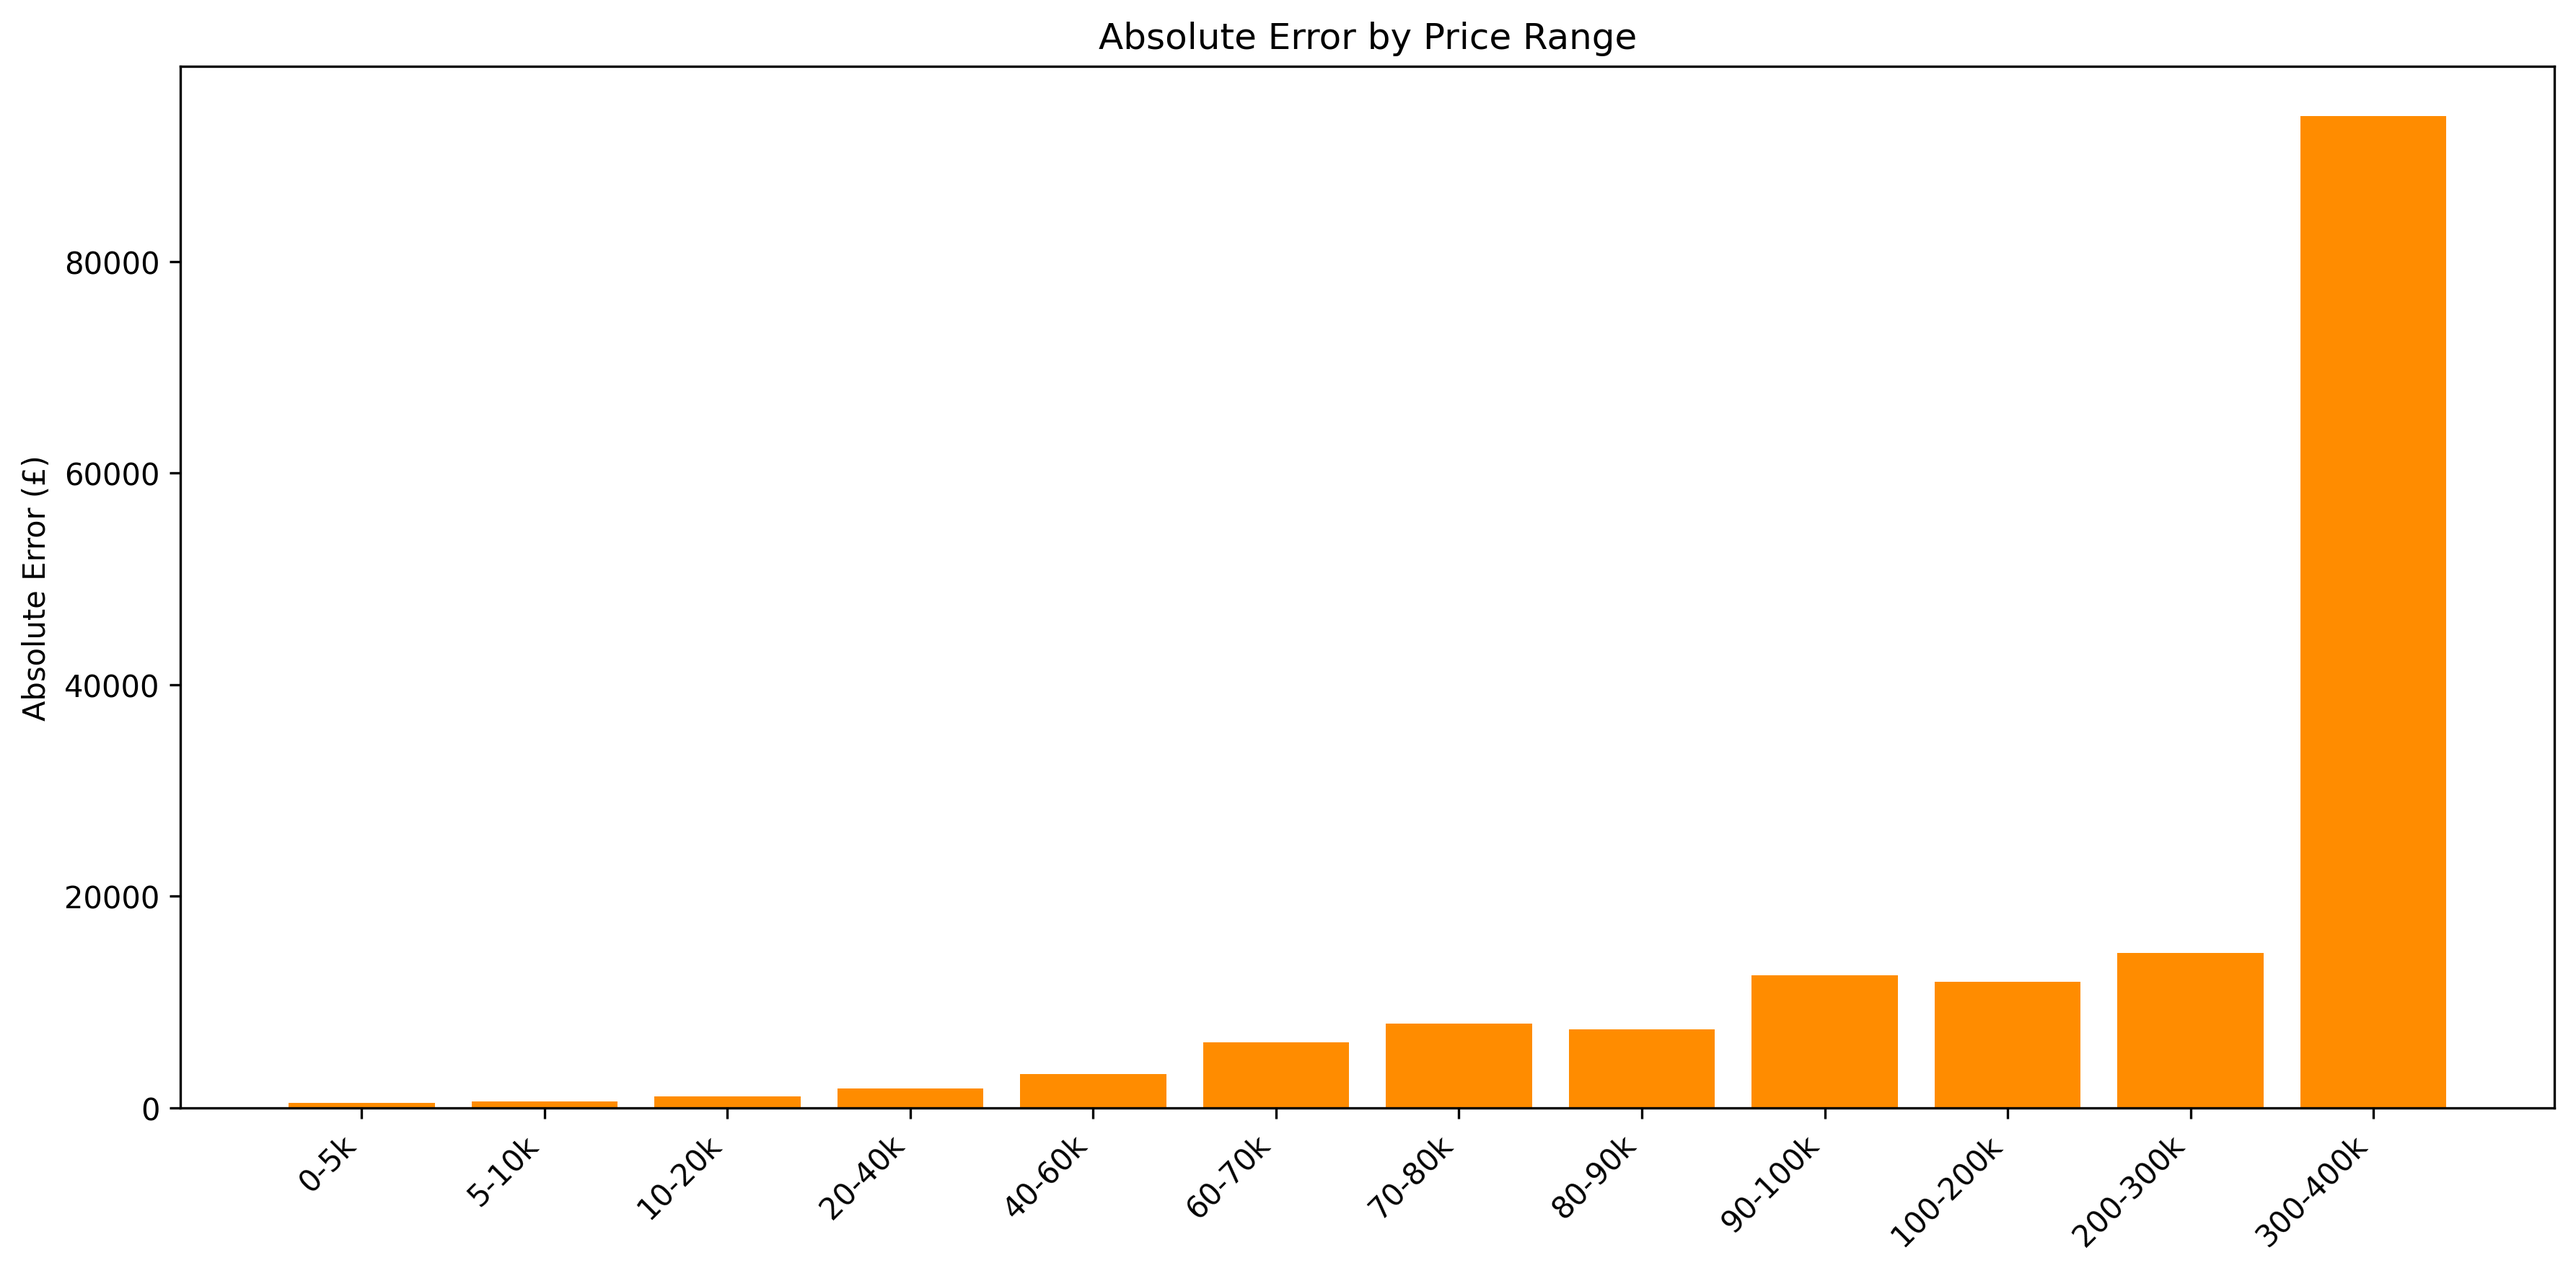
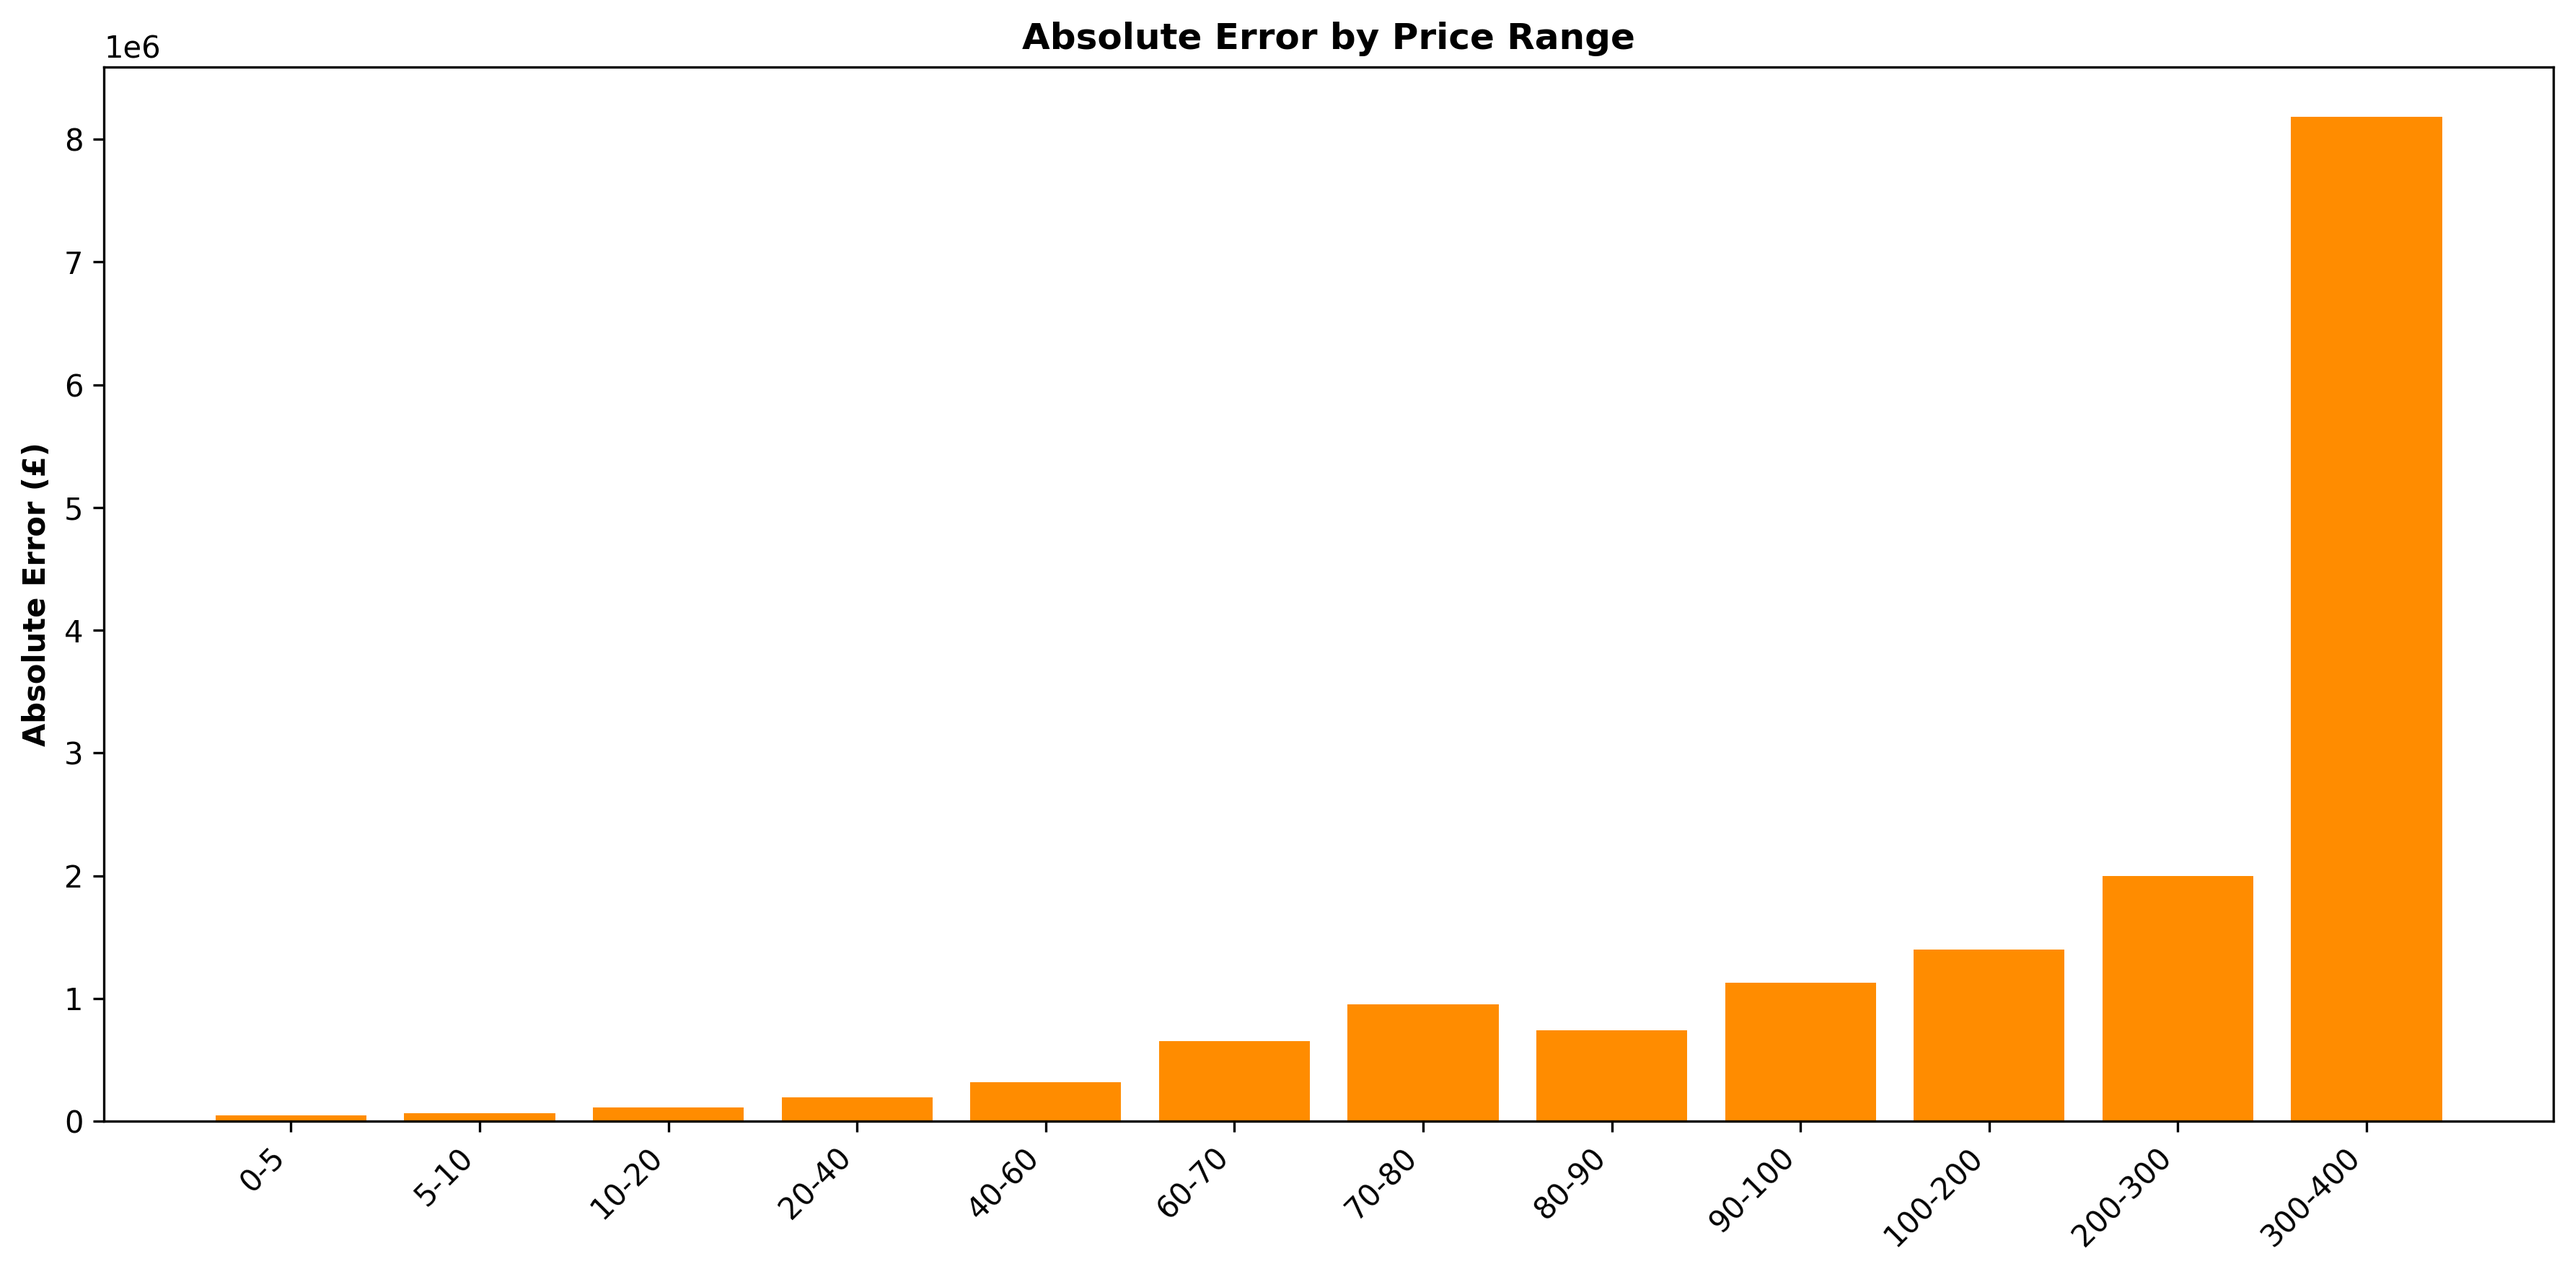
feat(models): save final models, metrics and figures

diff --git a/src/model_analysis.py b/src/model_analysis.py
@@ -21,14 +21,7 @@ from sklearn.utils.validation import check_is_fitted
 
 def main():
     df = get_safe_data()
-
-    # Check for proxy leakage
-    #plot_correlation_heatmap(df, numeric_features)
     
-    # Check price distributions
-    #plot_price_box_plots(df)
-
-    # -- Select features and split dataset -- #
     # List all categorical and numeric features
     categorical_features= [
         'brand', 'genmodel', 'colour', 'bodytype', 
@@ -42,12 +35,15 @@ def main():
         'age', 'usage_intensity_norm', 'original_sales', 'entry_price'
     ]
 
+    # Check for proxy leakage
+    plot_correlation_heatmap(df, numeric_features)
+
     # Define features and target for the model
     features = [
         'brand', 'colour', 'bodytype', 
         'gearbox','fuel', 'adv_month', 'mileage', 
         'mpg', 'seats', 'doors', 'power', 'engine',
-        'speed', 'age', 'usage_intensity_norm', 'original_sales', 'entry_price'
+        'speed', 'age', 'usage_intensity_norm', 'original_sales'
     ]
 
     target = 'price'
@@ -65,17 +61,34 @@ def main():
     all_features = show_feature_names(preprocess, categorical_features_to_train, numeric_features_to_train, X_train) # Get feature names
     print (f"Number of ohe catagoric features + numeric features: {len(all_features)}")
     
-    # # -- Train models -- #
-    #dtr_model = find_or_train_model("final_decision_tree.pkl", "decision_tree_regressor", preprocess, X_train, y_train, X_test, y_test)
-    rf_model = find_or_train_model("random_forest.pkl", "random_forest", preprocess, X_train, y_train, X_test, y_test)
-    #gb_model = find_or_train_model("gradient_boosting.pkl", "gradient_boosting", preprocess, X_train, y_train, X_test, y_test)
-    
+    # Train models
+    dtr_model = find_or_train_model("final_decision_tree.pkl", "decision_tree_regressor", preprocess, X_train, y_train, X_test, y_test)
+    gb_model = find_or_train_model("final_gradient_boosting.pkl", "gradient_boosting", preprocess, X_train, y_train, X_test, y_test)
+    rf_model = find_or_train_model("final_random_forest.pkl", "random_forest", preprocess, X_train, y_train, X_test, y_test)
+    rf_tuned_model = find_or_train_model("final_random_forest_tuned.pkl", "random_forest_tuned", preprocess, X_train, y_train, X_test, y_test)
 
-    # #Tune hyperparameters (tuned once then commented out)
+    # Plot feature importance
+    plot_feature_importance(all_features, dtr_model, "decision_tree_regressor", "final_dtr_feature_importance.png")
+    plot_feature_importance(all_features, gb_model, "gradient_boosting", "final_gb_feature_importance.png")
+    plot_feature_importance(all_features, rf_model, "random_forest", "final_rf_feature_importance.png")
+    plot_feature_importance(all_features, rf_tuned_model, "random_forest_tuned", "final_rf_tuned_feature_importance.png")
+
+    # Analyse Errors 
+    a_preds, a_mae, a_rmse, a_r2 = test_model(rf_tuned_model, X_test, y_test)
+    a_errors = np.abs(y_test - a_preds)
+    a_relative_error = a_errors / y_test
+
+    # Plot error graphs
+    plot_model_analysis(X_test, y_test, a_preds, a_errors, a_relative_error, "brand_level_bias.png", a_mae)
+
+    # Plot tree
+    #plot_decision_tree(dtr_model, "decision_tree_regressor", all_features, "final_decision_tree_plot.png")
+
+    #Tune hyperparameters (tuned once then commented out)
     # values, rf_tuned, params_tuned, mae_tuned, rmse_tuned, r2_tuned = tune_hyperparams(rf_model, "random_forest", X_train, y_train, X_test, y_test)
-    # save_model(rf_tuned, "rf_tuned3.pkl")
+    # save_model(rf_tuned, "final_random_forest_tuned.pkl")
     
-    # # Save tuned metrics
+    # # Save tuned metrics (uncomment when tuning model)
     # results = {
     #     "model_type": "random_forest_tuned",
     #     "mae": mae_tuned,
@@ -83,33 +96,9 @@ def main():
     #     "r2": r2_tuned,
     #     "hyperparameters": params_tuned,
     # }
+    # save_metrics(results, "final_rf_tuned.json")
 
-    # save_metrics(results, "rf_tuned3.json")
-
-    # Plot feature importance
-    #plot_feature_importance(all_features, dtr_model, "decision_tree_regressor", "final_dtr_feature_importance.png")
-    # plot_feature_importance(all_features, rf_model, "random_forest", "rf_feature_importance.png")
-    # plot_feature_importance(all_features, gb_model, "gradient_boosting", "gb_feature_importance.png")
-
-    # Plot tree
-    #plot_decision_tree(dtr_model, "decision_tree_regressor", all_features, "decision_tree_plot.png")
-
-    # Cross validate
-    #cross_validate(model, 'tree', X, y)
-
-    # Analyse Errors 
-
-    # a_preds, a_mae, a_rmse, a_r2 = test_model(rf_model, X_test, y_test)
-
-    # a_errors = np.abs(y_test - a_preds)
-    # a_relative_error = a_errors / y_test
-
-    # # # Plot error graphs
-    # # plot_error_graphs(errors, relative_error, y_test)
-    # plot_model_analysis(X_test, y_test, a_preds, a_errors, a_relative_error, "brand_level_entry_price.png")
-
-
-def plot_correlation_heatmap(df, numeric_features, figsize=(14, 10)):
+def plot_correlation_heatmap(df, numeric_features, figsize=(15, 8), fig_name = "correlation_heatmap.png"):
     """
     Plots a correlation heatmap for the numeric features in the dataset
     and prints the full correlation matrix.
@@ -128,15 +117,21 @@ def plot_correlation_heatmap(df, numeric_features, figsize=(14, 10)):
     plt.figure(figsize=figsize)
     sns.heatmap(
         corr_matrix,
+        annot_kws={"size": 12},
         annot=True,          # show values inside the heatmap
         fmt=".2f",           # format numbers
         cmap="coolwarm",
         center=0,
         linewidths=0.5
     )
+
+    plt.xticks(fontsize=15)
+    plt.yticks(fontsize=15)
+
     plt.title("Correlation Heatmap of Numeric Features")
     plt.tight_layout()
-    plt.show()
+    plt.savefig(f"figures/{fig_name}", dpi=600, bbox_inches='tight')
+    #plt.show()
 
     return corr_matrix
 
@@ -145,7 +140,7 @@ def find_or_train_model(model_file: str, model_name: str, preprocess, X_train, y
     # Check if model has already been trained, if not train the relevant model 
     
     model_path = os.path.join(f"models/{model_file}")
-    metrics_path = f"models/{model_name}_metrics.json"
+    metrics_path = f"models/final_{model_name}_metrics.json"
     if os.path.exists(model_path) and os.path.exists(metrics_path):
         model = load_model(model_file)
         print(f"Loaded existing baseline {model_name} model.")
@@ -208,8 +203,7 @@ def get_safe_data(path = "data/processed/final_dataset.csv"):
 
     safe_df =  df[(~df["is_flagged"]) & price_filter]
 
-    #5print(safe_df.max())
-        
+    #print(safe_df.max())
 
     return safe_df
 
@@ -255,7 +249,7 @@ def show_feature_names(preprocess: ColumnTransformer, cat_features:list, num_fea
     return all_features
 
 def run_pipeline(preprocess: ColumnTransformer, X_train, y_train, model_name:str):
-    # runs full pipeline based on the model selected - preprocessing + model
+    # Runs full pipeline based on the model selected - preprocessing + model
     start = time.time()
 
     match model_name:
@@ -269,6 +263,18 @@ def run_pipeline(preprocess: ColumnTransformer, X_train, y_train, model_name:str
             model = Pipeline(steps=[
                 ('preprocess', preprocess),
                 ('random_forest', RandomForestRegressor(n_jobs=-1, random_state=10))
+            ])
+        case "random_forest_tuned":
+            model = Pipeline(steps=[
+                ('preprocess', preprocess),
+                ('random_forest_tuned', RandomForestRegressor(
+                    n_jobs=-1, 
+                    max_depth = 29,
+                    max_features = None,
+                    min_samples_leaf = 2,
+                    min_samples_split = 6,
+                    n_estimators = 47,
+                    random_state = 10))
             ])
 
         case "gradient_boosting":
@@ -296,7 +302,7 @@ def test_model(model, X_test, y_test):
     return preds, mae, rmse, r2
 
 def plot_decision_tree(model, model_name, all_features, fig_name:str):
-    # -- Plot tree graphically -- #
+    # Plot tree graphically
 
     # Extract tree to plot graphically
     model_step = model.named_steps[model_name]
@@ -330,7 +336,8 @@ def cross_validate(model, model_type:str, X, y, score_type = 'neg_mean_absolute_
     print("Worst MAE:", np.max(cv_mae)) # highest error
 
 def plot_feature_importance(all_features:list, model, model_name:str, fig_name:str):
-    
+    # Plot feature importance horizontal bar chart
+
     model_step = model.named_steps[model_name]
 
     # Find feature importances
@@ -351,8 +358,9 @@ def plot_feature_importance(all_features:list, model, model_name:str, fig_name:s
     plt.figure(figsize=(8,5))
     plt.barh(feat_imp_nonzero["Feature"], feat_imp_nonzero["Importance"])
 
-    plt.xlabel("Importance")
-    plt.title("Feature Importances (Horizontal)")
+    plt.xlabel("Importance", fontweight="bold")
+    plt.ylabel("Feature", fontweight="bold")
+    plt.title("Feature Importances (Random Forest Tuned)", fontweight="bold")
     plt.tight_layout()
     plt.savefig(f"figures/{fig_name}", dpi=300, bbox_inches='tight')
 
@@ -381,11 +389,11 @@ def plot_error_graphs(errors, relative_error, y_test):
     plt.savefig("figures/relative_error.png", dpi=300, bbox_inches='tight')
     #plt.show()
 
-def plot_model_analysis(X_test, y_test, preds, errors, relative_error, file_name:str):
+def plot_model_analysis(X_test, y_test, preds, errors, relative_error, file_name:str, mae ):
     
     # Check if model performs worse on high or low priced cars
     bins = [0, 5000, 10000, 20000, 40000, 60000, 70000, 80000, 90000, 100000, 200000, 300000, 400000, 500000, 600000, 700000, 800000, 900000, 1000000, 2000000]
-    labels = [ f"{int(bins[i]/1000)}-{int(bins[i+1]/1000)}k" for i in range(len(bins)-1) ]
+    labels = [ f"{int(bins[i]/1000)}-{int(bins[i+1]/1000)}" for i in range(len(bins)-1) ]
 
     df_errors = pd.DataFrame({
         "true_price": y_test,
@@ -395,14 +403,15 @@ def plot_model_analysis(X_test, y_test, preds, errors, relative_error, file_name
 
     df_errors["price_bin"] = pd.cut(df_errors["true_price"], bins=bins, labels=labels)
 
-    error_by_bin = df_errors.groupby("price_bin")[["error", "relative_error"]].mean()
+    error_by_bin = df_errors.groupby("price_bin")[["error", "relative_error"]].mean()*100
    
     # --- Plot error by price bin --- #
     plt.figure(figsize=(12, 6))
     plt.bar(error_by_bin.index.astype(str), error_by_bin["relative_error"], color="steelblue")
     plt.xticks(rotation=45, ha="right")
-    plt.ylabel("Relative Error")
-    plt.title("Relative Error by Price Range")
+    plt.ylabel("Relative Error (%)", fontweight="bold", fontsize = 15)
+    plt.xlabel("Price Range (thousand, £)", fontweight="bold", fontsize = 15)
+    plt.title("Relative Error by Price Range", fontweight="bold", fontsize = 15)
     plt.tight_layout()
     plt.savefig("figures/relative_error_binned.png", dpi=300, bbox_inches='tight')
     #plt.show()
@@ -410,8 +419,8 @@ def plot_model_analysis(X_test, y_test, preds, errors, relative_error, file_name
     plt.figure(figsize=(12, 6))
     plt.bar(error_by_bin.index.astype(str), error_by_bin["error"], color="darkorange")
     plt.xticks(rotation=45, ha="right")
-    plt.ylabel("Absolute Error (£)")
-    plt.title("Absolute Error by Price Range")
+    plt.ylabel("Absolute Error (£)", fontweight="bold")
+    plt.title("Absolute Error by Price Range", fontweight="bold")
     plt.tight_layout()
     plt.savefig("figures/absolute_error_binned.png", dpi=300, bbox_inches='tight')
     #plt.show()
@@ -431,20 +440,30 @@ def plot_model_analysis(X_test, y_test, preds, errors, relative_error, file_name
 
     brand_errors = df_brand.groupby("brand")["error"].mean().sort_values()
     # Filter significant over/under predictions 
-    threshold = 800 # or mae 
-    significant = brand_errors[brand_errors.abs() > threshold]
+    threshold = mae 
+    significant = brand_errors[(brand_errors.abs() > threshold) & (brand_errors.abs() < 50000 )] # Filter for errors larger than the MAE and remove outliers (extreme errors)
 
     print(significant)
     
-    colors = ["red" if v < 0 else "green" for v in brand_errors.values]
+    colors = ["red" if v < 0 else "green" for v in significant.values]
 
-    plt.figure(figsize=(10, 14))
-    plt.barh(brand_errors.index, brand_errors.values, color=colors)
-    plt.xlabel("Average Prediction Error (£)")
-    plt.title("Brand-Level Prediction Bias")
+
+    # Format Graph
+    plt.figure(figsize=(15, 6))
+    plt.barh(significant.index, significant.values, color=colors)
+    plt.xlabel("Average Prediction Error (MAE, £)", fontsize =18, fontweight="bold")
+    #plt.ylabel("Brand", fontsize =15, fontweight="bold")
+    plt.yticks(fontsize=16)
+    plt.xticks(fontsize=16)
+    plt.title("Brand-Level Prediction Bias", fontsize = 18, fontweight="bold")
     plt.axvline(0, color="black", linewidth=1)
+
+    # Add value labels
+    for i, v in enumerate(significant.values):
+        plt.text(v,i,f"{v:.0f}",va='center',ha='left' if v >= 0 else 'right', fontsize = 12)
+
     plt.tight_layout()
-    plt.savefig(file_name, dpi=300, bbox_inches='tight')
+    plt.savefig(f"figures/{file_name}", dpi=300, bbox_inches='tight')
     #plt.show()
 
 def plot_price_box_plots(df:pd.DataFrame):
@@ -502,8 +521,8 @@ def tune_hyperparams(model, model_type:str, X_train, y_train, X_test, y_test):
         case 'random_forest':
             param_dist = {
                 "random_forest__n_estimators": randint(20, 150),
-                "random_forest__max_depth": [None] + list(range(5, 51)),
-                "random_forest__min_samples_split": randint(2, 20),
+                "random_forest__max_depth": [None] + list(range(5, 31)),
+                "random_forest__min_samples_split": randint(2, 11),
                 "random_forest__min_samples_leaf": randint(1, 5),
                 "random_forest__max_features": [None, "sqrt", "log2"]
             }
@@ -518,8 +537,6 @@ def tune_hyperparams(model, model_type:str, X_train, y_train, X_test, y_test):
         n_jobs=-1,
         random_state=10
     )
-
-
 
     # grid = GridSearchCV(
     #     model,
